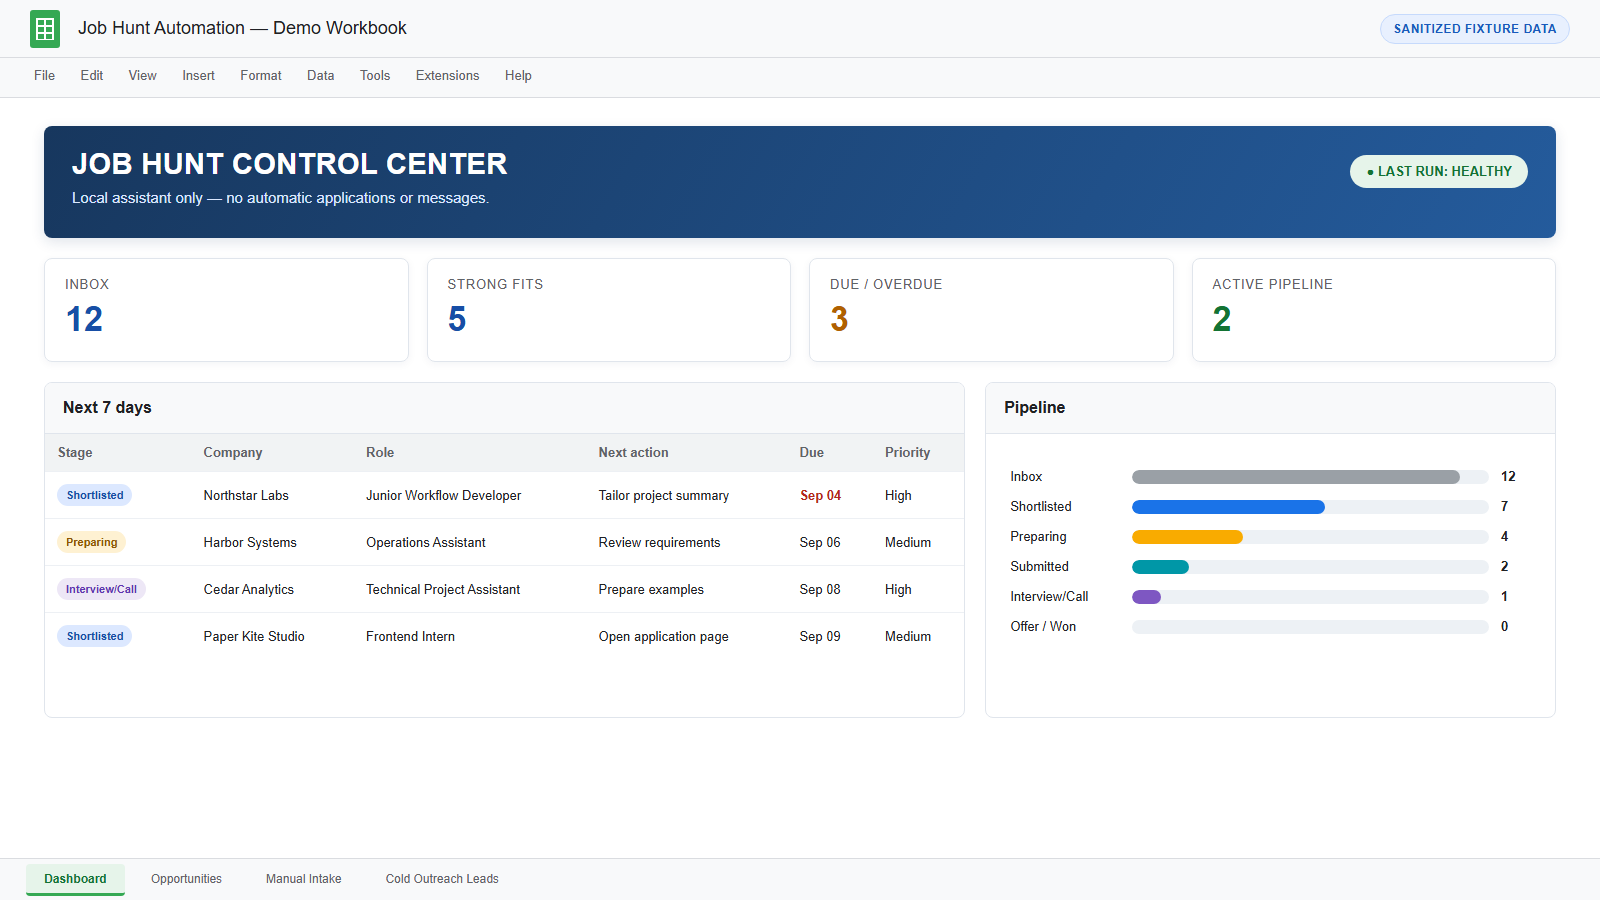
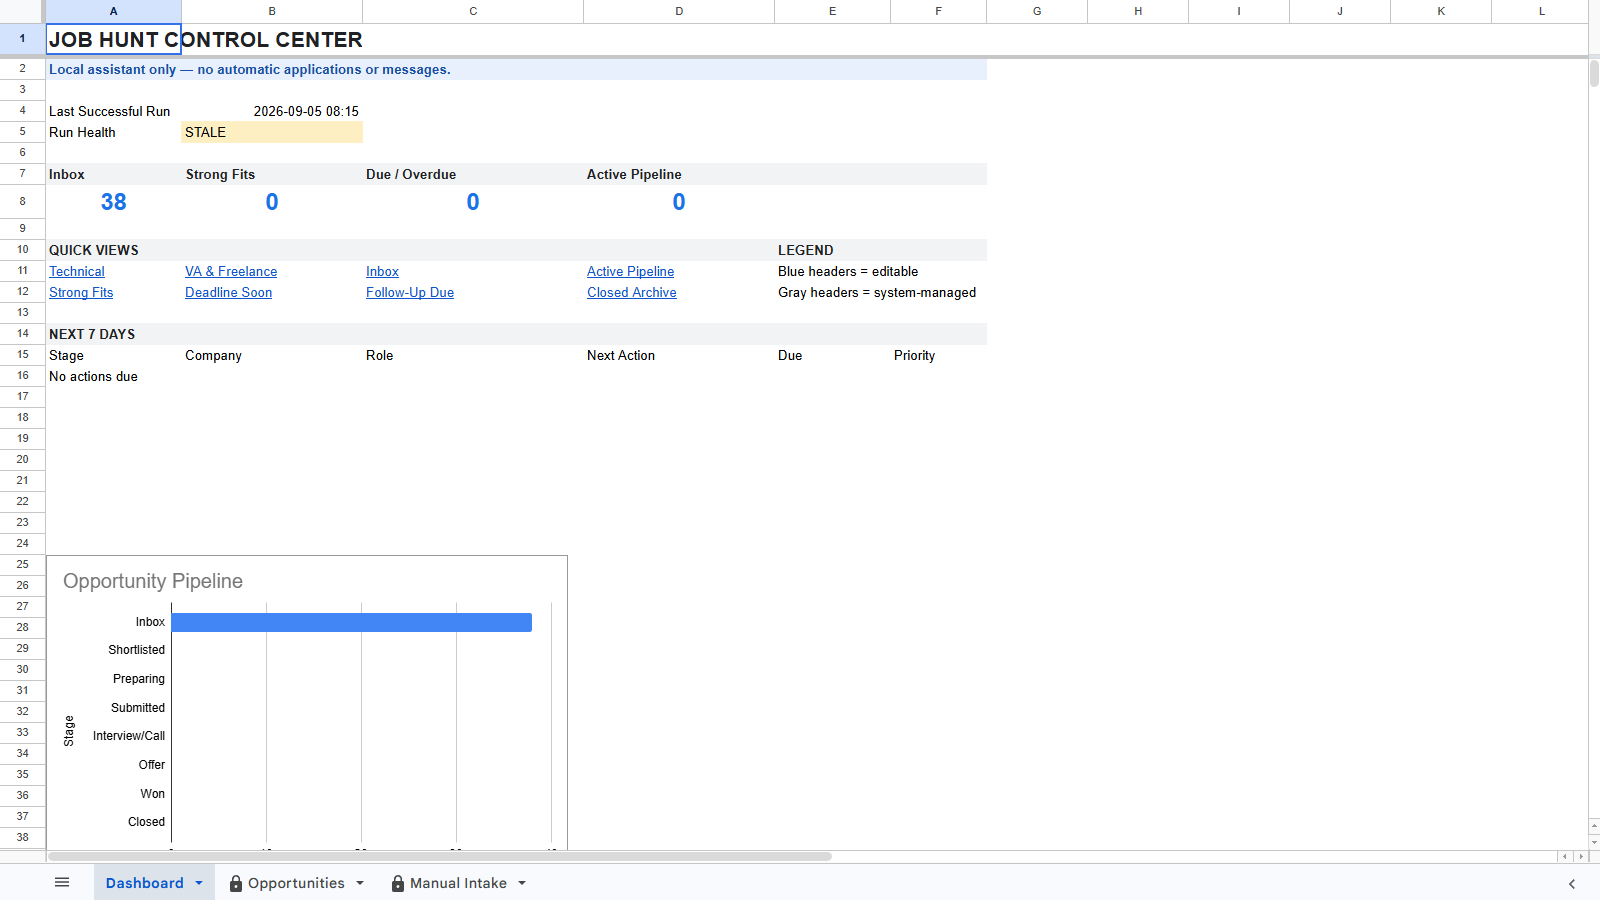
docs: replace mockups with authentic workbook captures
Show the real Google Sheets interface so the public portfolio accurately represents the shipped experience. Clarify that the demo uses attributed public listings while excluding private workflow and account data.

diff --git a/README.md b/README.md
@@ -8,7 +8,10 @@ A zero-platform-cost, local Windows opportunity-intelligence pipeline. It collec
 approved public job feeds, applies transparent eligibility and fit rules, and updates a
 user-owned Google Sheets workbook. Applications and messages always remain manual.
 
-![Sanitized fixture view of the job-hunt dashboard](docs/assets/dashboard.png)
+![Actual Google Sheets dashboard from the private portfolio demo workbook](docs/assets/dashboard.png)
+
+_Actual Google Sheets interface. The private demo copy contains public job listings; browser,
+account, workbook-link, and personal workflow information are excluded from the capture._
 
 ## Why this exists
 
@@ -26,7 +29,10 @@ The result is intentionally local-first:
 - Local snapshots, leases, and pending-run files support conflict-safe recovery.
 - Optional Gemini/Ollama analysis is disabled by default and has no paid fallback.
 
-![Sanitized fixture view of the opportunities queue](docs/assets/opportunities.png)
+![Actual Google Sheets opportunities queue populated with public job listings](docs/assets/opportunities.png)
+
+_Public listing data is attributed in the workbook to Himalayas or Jobicy and retains its
+source link. Personal notes, contacts, application dates, and outcomes are not shown._
 
 ## Architecture
 
